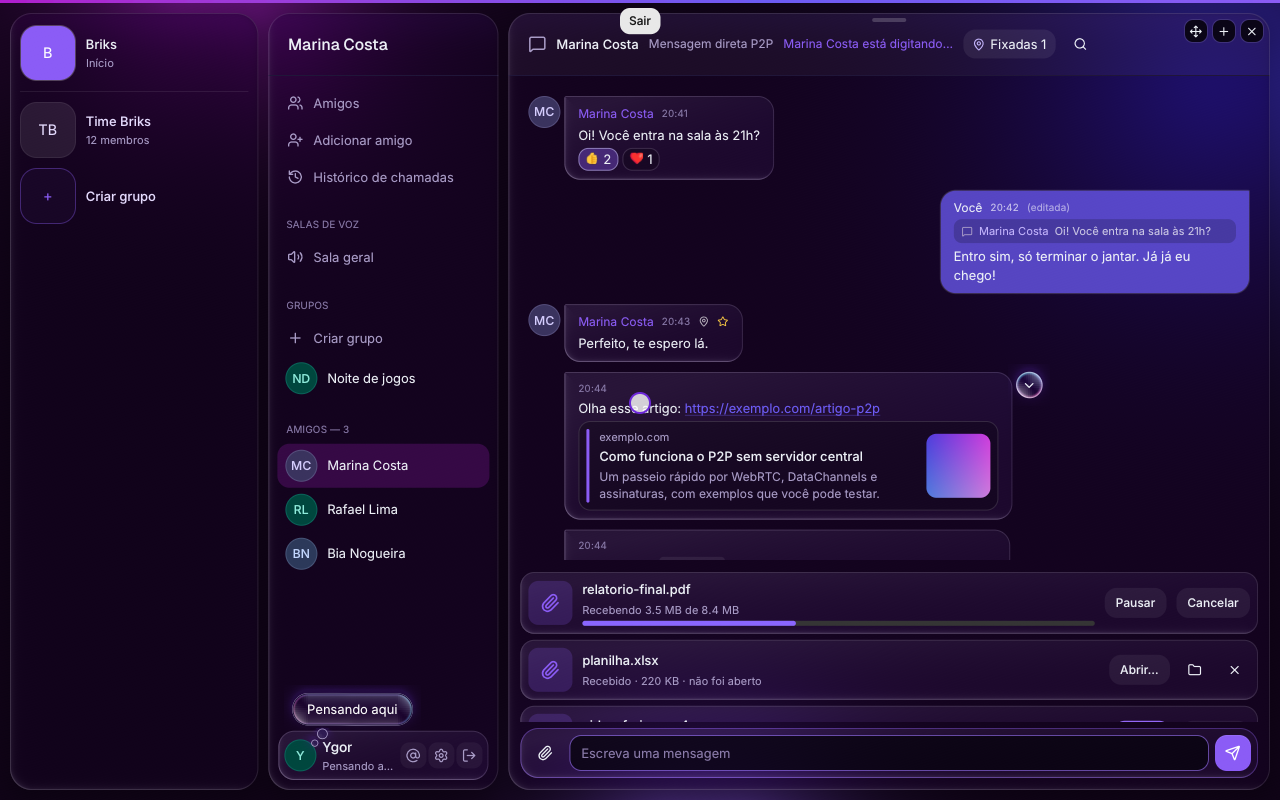
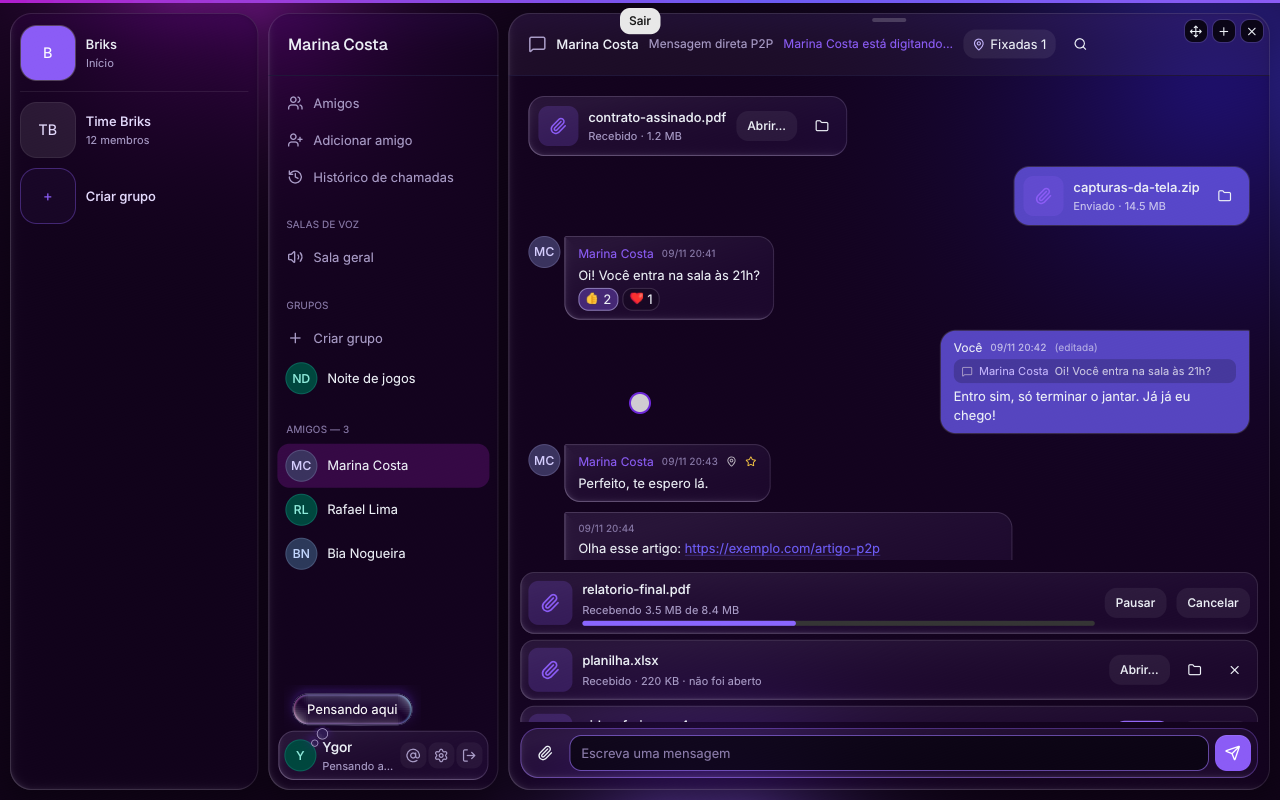
CUI chat: anexos concluídos viram cartões na conversa (na ordem do horário), guardados neste computador

Changed region(s): [[0.4062, 0.2812, 1.0, 0.7188], [0.7188, 0.1875, 1.0, 0.375], [0.4062, 0.125, 0.6562, 0.25]]

diff --git a/apps/desktop-cui/src/attach.c b/apps/desktop-cui/src/attach.c
@@ -10,6 +10,7 @@
 #include <ctype.h>
 #include <windows.h>
 #include <shellapi.h>
+#include <shlobj.h>
 
 static double json_num(const jval *o, const char *k, double fb) { const jval *v = json_get(o, k); return v && v->type == J_NUM ? v->num : fb; }
 
@@ -40,7 +41,8 @@ static cui_texture thumb_tex(cui_ctx *ui, thumb_t *t) {
 typedef enum { XF_OFFER, XF_RUN, XF_DONE, XF_CANCELLED, XF_FAILED, XF_WAIT, XF_PAUSED } xf_state;   /* OFFER: oferta recebida (Baixar/Recusar); WAIT: aguardando o aceite do outro lado */
 typedef struct { bool used; char id[48]; char name[104]; double size, done; xf_state st; bool mine; char path[MAX_PATH]; char err[120]; thumb_t th; } xf_t;
 static xf_t g_xf[NXF];
-static char g_open_path[MAX_PATH]; static bool g_open_dlg, g_gal_dlg;
+static char g_open_path[MAX_PATH]; static bool g_open_dlg, g_gal_dlg, g_demo_tl;
+static void tl_add(const app_state_t *s, const char *xid, const xf_t *x);
 
 static xf_t *xf_find(const char *id, bool create) {
     for (int i = 0; i < NXF; i++) if (g_xf[i].used && !strcmp(g_xf[i].id, id)) return &g_xf[i];
@@ -112,6 +114,7 @@ bool attach_event(app_state_t *s, const char *ev, const jval *j) {
             x->st = XF_DONE; x->done = x->size;
             if (json_str(j, "path", "")[0]) snprintf(x->path, sizeof x->path, "%s", json_str(j, "path", ""));
             thumb_from_json(&x->th, json_get(j, "thumb"));
+            tl_add(s, id, x);
         } else if (!strcmp(kind, "cancelled")) x->st = XF_CANCELLED;
         else if (!strcmp(kind, "failed")) { x->st = XF_FAILED; snprintf(x->err, sizeof x->err, "%s", json_str(j, "error", "falhou")); }
         return true;
@@ -192,6 +195,87 @@ static bool risky_ext(const char *p) {
     static const char *R[] = { ".exe", ".bat", ".cmd", ".com", ".ps1", ".msi", ".scr", ".js", ".jse", ".vbs", ".vbe", ".wsf", ".lnk", ".hta", ".jar", ".reg", ".dll", NULL };
     for (int i = 0; R[i]; i++) if (!_stricmp(e, R[i])) return true;
     return false;
+}
+
+/* ---------- anexos na conversa: itens da linha do tempo, guardados neste computador (anexos.tsv) ----------
+ * Cada transferência concluída vira um cartão na conversa aberta, na posição do horário, e continua lá depois de reiniciar. */
+#define NTL 200
+typedef struct { bool used; char xid[48], conv[48], when[40], name[104], path[MAX_PATH]; double size; bool mine; } tl_t;
+static tl_t g_tl[NTL]; static bool g_tl_loaded;
+static bool tl_path(char *out, size_t cap) {
+    char ad[MAX_PATH]; if (SHGetFolderPathA(NULL, CSIDL_APPDATA, NULL, 0, ad) != S_OK) return false;
+    char dir[MAX_PATH]; snprintf(dir, sizeof dir, "%s\\Briks-CUI", ad); CreateDirectoryA(dir, NULL);
+    snprintf(out, cap, "%s\\anexos.tsv", dir); return true;
+}
+static void tl_clean(char *s) { for (; *s; s++) if (*s == '\t' || *s == '\n' || *s == '\r') *s = ' '; }
+static void tl_save(void) {
+    char p[MAX_PATH]; if (g_demo_tl || !tl_path(p, sizeof p)) return;
+    FILE *f = fopen(p, "wb"); if (!f) return;
+    for (int i = 0; i < NTL; i++) if (g_tl[i].used)
+        fprintf(f, "%s\t%s\t%s\t%s\t%d\t%.0f\t%s\n", g_tl[i].xid, g_tl[i].conv, g_tl[i].when, g_tl[i].name, g_tl[i].mine ? 1 : 0, g_tl[i].size, g_tl[i].path);
+    fclose(f);
+}
+static void tl_load(void) {
+    if (g_tl_loaded) return; g_tl_loaded = true;
+    char p[MAX_PATH]; if (g_demo_tl || !tl_path(p, sizeof p)) return;
+    FILE *f = fopen(p, "rb"); if (!f) return;
+    char ln[1400]; int n = 0;
+    while (n < NTL && fgets(ln, sizeof ln, f)) {
+        char *fld[7]; int k = 0; char *q = ln; ln[strcspn(ln, "\r\n")] = 0;
+        while (k < 7) { fld[k++] = q; char *t = strchr(q, '\t'); if (!t) break; *t = 0; q = t + 1; }
+        if (k < 7) continue;
+        tl_t *t = &g_tl[n++]; memset(t, 0, sizeof *t); t->used = true;
+        snprintf(t->xid, sizeof t->xid, "%s", fld[0]); snprintf(t->conv, sizeof t->conv, "%s", fld[1]); snprintf(t->when, sizeof t->when, "%s", fld[2]);
+        snprintf(t->name, sizeof t->name, "%s", fld[3]); t->mine = fld[4][0] == '1'; t->size = atof(fld[5]); snprintf(t->path, sizeof t->path, "%s", fld[6]);
+    }
+    fclose(f);
+}
+static const char *tl_conv(const app_state_t *s) {
+    if (s->active_group >= 0 && s->active_group < s->group_count) return s->groups[s->active_group].id;
+    if (s->active_friend >= 0 && s->active_friend < s->friend_count) return s->friends[s->active_friend].id;
+    return "";
+}
+static void tl_add(const app_state_t *s, const char *xid, const xf_t *x) {
+    tl_load();
+    for (int i = 0; i < NTL; i++) if (g_tl[i].used && !strcmp(g_tl[i].xid, xid)) return;   /* já registrado */
+    int slot = -1; for (int i = 0; i < NTL; i++) if (!g_tl[i].used) { slot = i; break; }
+    if (slot < 0) { memmove(&g_tl[0], &g_tl[1], sizeof g_tl[0] * (NTL - 1)); slot = NTL - 1; }   /* cheio: descarta o mais antigo */
+    tl_t *t = &g_tl[slot]; memset(t, 0, sizeof *t); t->used = true;
+    snprintf(t->xid, sizeof t->xid, "%s", xid); snprintf(t->conv, sizeof t->conv, "%s", tl_conv(s));
+    SYSTEMTIME u; GetSystemTime(&u);
+    snprintf(t->when, sizeof t->when, "%04d-%02d-%02dT%02d:%02d:%02d.%03dZ", u.wYear, u.wMonth, u.wDay, u.wHour, u.wMinute, u.wSecond, u.wMilliseconds);
+    snprintf(t->name, sizeof t->name, "%s", x->name[0] ? x->name : "arquivo"); tl_clean(t->name);
+    snprintf(t->path, sizeof t->path, "%s", x->path); tl_clean(t->path);
+    t->size = x->size; t->mine = x->mine; tl_save();
+}
+/* ordena por horário (ISO UTC compara como texto): desenha os itens desta conversa com horário < until (NULL = todos) a partir de *cur */
+void attach_timeline(cui_ctx *ui, app_state_t *s, int *cur, const char *until) {
+    tl_load();
+    const char *cv = tl_conv(s);
+    for (; *cur < NTL; (*cur)++) {
+        tl_t *t = &g_tl[*cur]; if (!t->used || (strcmp(t->conv, cv) && t->conv[0] != '*')) continue;   /* "*" = demonstração: aparece em qualquer conversa */
+        if (until && strcmp(t->when, until) >= 0) break;
+        if (!attach_search_match(t->name)) continue;
+        char a[24]; cui_push_id_int(ui, 9000 + *cur);
+        cui_box(ui, .dir = CUI_ROW, .width = CUI_FILL, .justify = t->mine ? CUI_JUSTIFY_END : CUI_JUSTIFY_START) {
+            cui_box(ui, .dir = CUI_ROW, .max_width = 420, .pad = 10, .gap = 10, .radius = 16, .bg = t->mine ? g_th.bubble_own : B_GLASS_CARD, .border = 1,
+                    .border_color = t->mine ? CUI_RGBA(0xffffff26) : B_GLASS_BORDER, .align = CUI_ALIGN_CENTER) {
+                cui_box(ui, .width = CUI_PX(40), .height = CUI_PX(40), .radius = 10, .bg = CUI_RGBA(0x8b5cf633), .align = CUI_ALIGN_CENTER, .justify = CUI_JUSTIFY_CENTER) { cui_icon(ui, CUI_ICON_PAPERCLIP, 18, B_C3); }
+                cui_box(ui, .gap = 2, .max_width = 250) {
+                    cui_text(ui, t->name, .font = CUI_FONT_MEDIUM, .size = 13, .nowrap = true);
+                    char l[80]; snprintf(l, sizeof l, "%s · %s", t->mine ? "Enviado" : "Recebido", fmt_size(t->size, a, sizeof a));
+                    cui_text(ui, l, .size = 11, .color = t->mine ? CUI_RGBA(0xffffffb0) : B_MUTED);
+                }
+                if (t->path[0]) {
+                    if (!t->mine && cui_button(ui, "Abrir…", .variant = CUI_BUTTON_SECONDARY, .size = CUI_SIZE_SM)) { snprintf(g_open_path, sizeof g_open_path, "%s", t->path); g_open_dlg = true; }
+                    if (cui_icon_button(ui, CUI_ICON_FOLDER, .size = CUI_SIZE_SM, .tooltip = "Mostrar na pasta")) {
+                        char arg[MAX_PATH + 16]; snprintf(arg, sizeof arg, "/select,\"%s\"", t->path); ShellExecuteA(NULL, "open", "explorer.exe", arg, NULL, SW_SHOWNORMAL);
+                    }
+                }
+            }
+        }
+        cui_pop_id(ui);
+    }
 }
 
 void attach_strip(cui_ctx *ui, app_state_t *s) {
@@ -372,6 +456,10 @@ void attach_demo(app_state_t *s) {
     xf_t *b = xf_find("demo-b", true); snprintf(b->name, sizeof b->name, "planilha.xlsx"); b->size = 220 * 1024; b->done = b->size; b->st = XF_DONE; b->mine = false; snprintf(b->path, sizeof b->path, "C:\\Users\\demo\\planilha.xlsx");
     xf_t *d = xf_find("demo-d", true); snprintf(d->name, sizeof d->name, "video-ferias.mp4"); d->size = 310.0 * 1048576; d->st = XF_OFFER; d->mine = false;
     xf_t *c = xf_find("demo-c", true); snprintf(c->name, sizeof c->name, "foto.png"); c->size = 540 * 1024; c->st = XF_FAILED; snprintf(c->err, sizeof c->err, "conexão encerrada");
+    g_demo_tl = true; g_tl_loaded = true;
+    tl_t *t0 = &g_tl[0]; memset(t0, 0, sizeof *t0); t0->used = true; snprintf(t0->xid, sizeof t0->xid, "d1"); snprintf(t0->conv, sizeof t0->conv, "*"); snprintf(t0->when, sizeof t0->when, "2000-01-01T00:00:00.000Z");
+    snprintf(t0->name, sizeof t0->name, "contrato-assinado.pdf"); t0->size = 1.2 * 1048576; snprintf(t0->path, sizeof t0->path, "C:/Users/demo/contrato-assinado.pdf");
+    tl_t *t1 = &g_tl[1]; *t1 = *t0; snprintf(t1->xid, sizeof t1->xid, "d2"); snprintf(t1->name, sizeof t1->name, "capturas-da-tela.zip"); t1->size = 14.5 * 1048576; t1->mine = true;
     snprintf(g_ty[0].name, sizeof g_ty[0].name, "Marina Costa"); g_ty[0].until = GetTickCount() + 600000;
 }
 

diff --git a/apps/desktop-cui/src/ui_social.c b/apps/desktop-cui/src/ui_social.c
@@ -345,7 +345,9 @@ static void content(cui_ctx *ui, app_state_t *s) {
                 }
             }
             cui_column(ui, .gap = 10, .width = CUI_FILL) {
-                for (int i = 0; i < s->msg_count; i++) { if (msgui_deleted(s->msgs[i].id) || !attach_search_match(msgui_text(&s->msgs[i]))) continue; cui_push_id_int(ui, 5000 + i); g_grouped = attach_grouped(s, i); bubble(ui, s, &s->msgs[i], true); g_grouped = false; cui_pop_id(ui); }
+                int tcur = 0;   /* anexos concluídos entram na linha do tempo, na posição do horário */
+                for (int i = 0; i < s->msg_count; i++) { attach_timeline(ui, s, &tcur, s->msgs[i].created); if (msgui_deleted(s->msgs[i].id) || !attach_search_match(msgui_text(&s->msgs[i]))) continue; cui_push_id_int(ui, 5000 + i); g_grouped = attach_grouped(s, i); bubble(ui, s, &s->msgs[i], true); g_grouped = false; cui_pop_id(ui); }
+                attach_timeline(ui, s, &tcur, NULL);
             }
         }
         cui_box(ui, .width = CUI_FILL, .pad = 12, .pad_top = 0, .gap = 6) {

diff --git a/apps/desktop-cui/src/attach.h b/apps/desktop-cui/src/attach.h
@@ -23,6 +23,7 @@ void attach_state_tag(cui_ctx *ui, app_state_t *s, const msg_t *m);   /* "envian
 void attach_rich(cui_ctx *ui, const char *id, const char *text);   /* texto da mensagem: **negrito**, `código`, links clicáveis, menções */
 void attach_mentions(cui_ctx *ui, app_state_t *s);                 /* sugestões de @menção acima do campo de texto */
 bool attach_grouped(const app_state_t *s, int idx);                /* a mensagem idx continua a anterior (mesmo autor, < 5 min, sem resposta) */
+void attach_timeline(cui_ctx *ui, app_state_t *s, int *cur, const char *until);   /* anexos concluídos desta conversa, na ordem do horário (until NULL = o resto) */
 void attach_demo(app_state_t *s);                                  /* BRIKS_DEMO=msgs: dados de exemplo para capturas, sem rede */
 void attach_set_inflight(const char *msg_id);                      /* chat.c: mensagem cuja gravação acabou de começar */
 void attach_inflight_done(app_state_t *s, bool ok);                /* app.c: resultado do OP_MSG_SEND */
